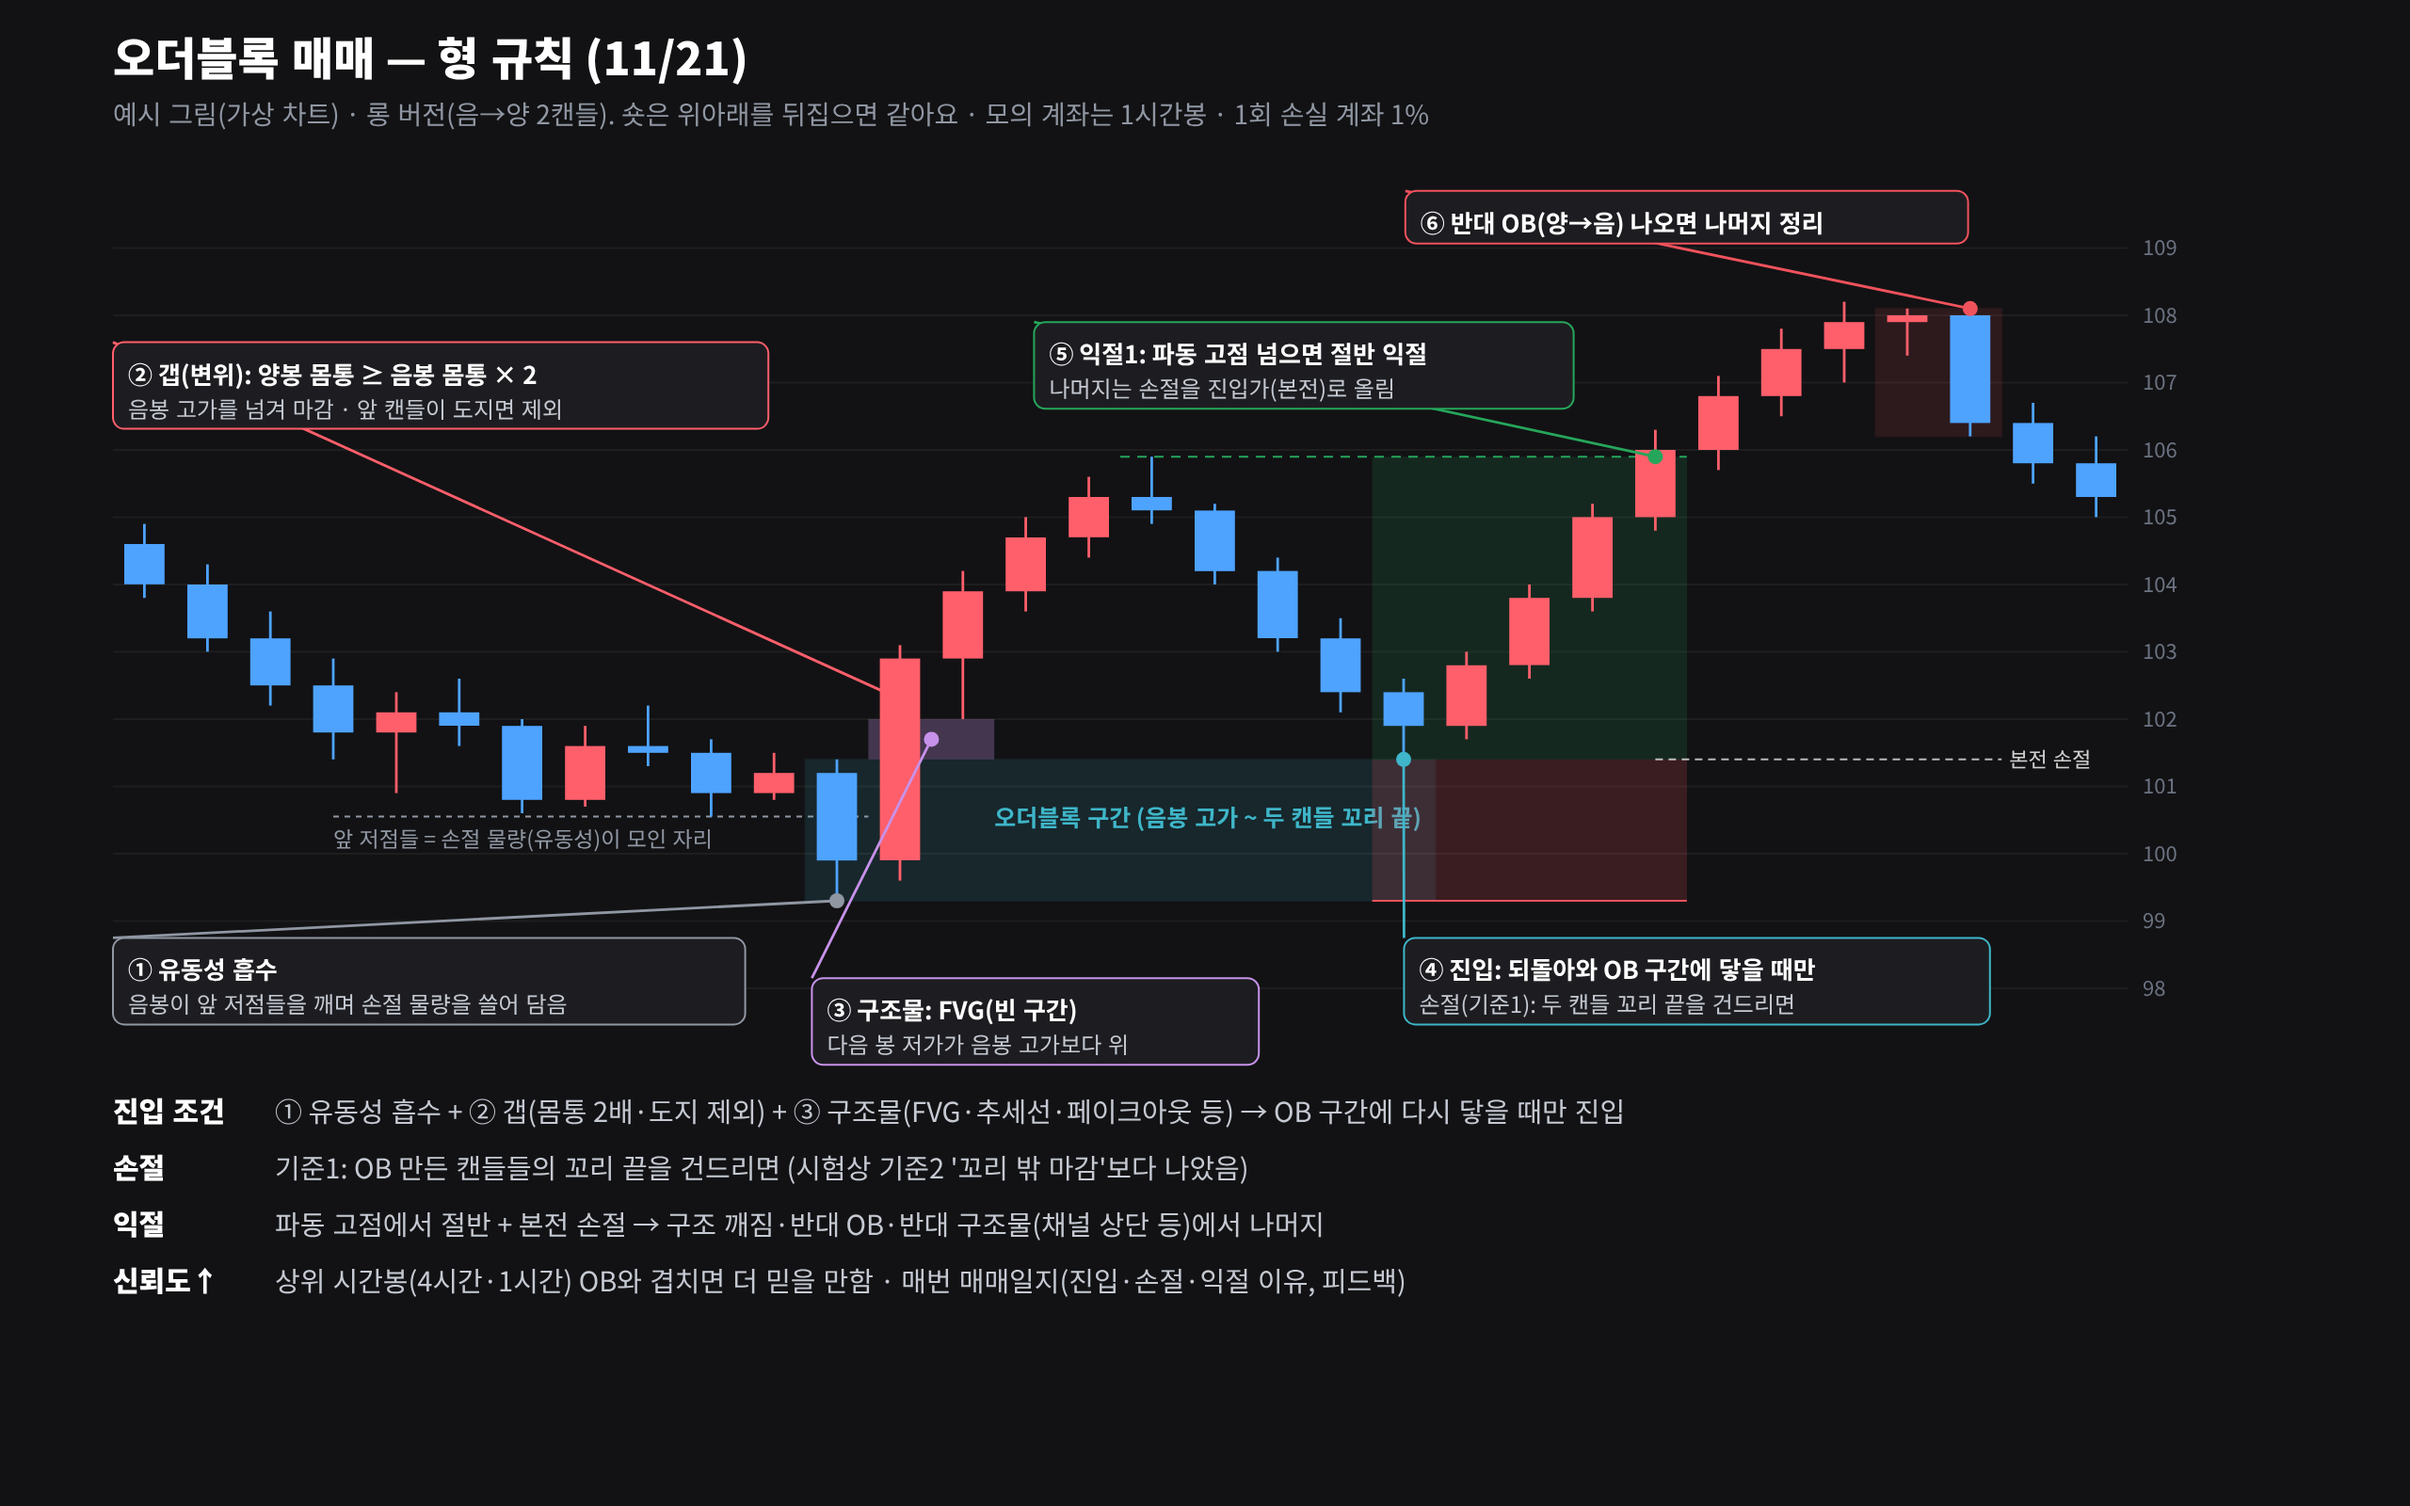
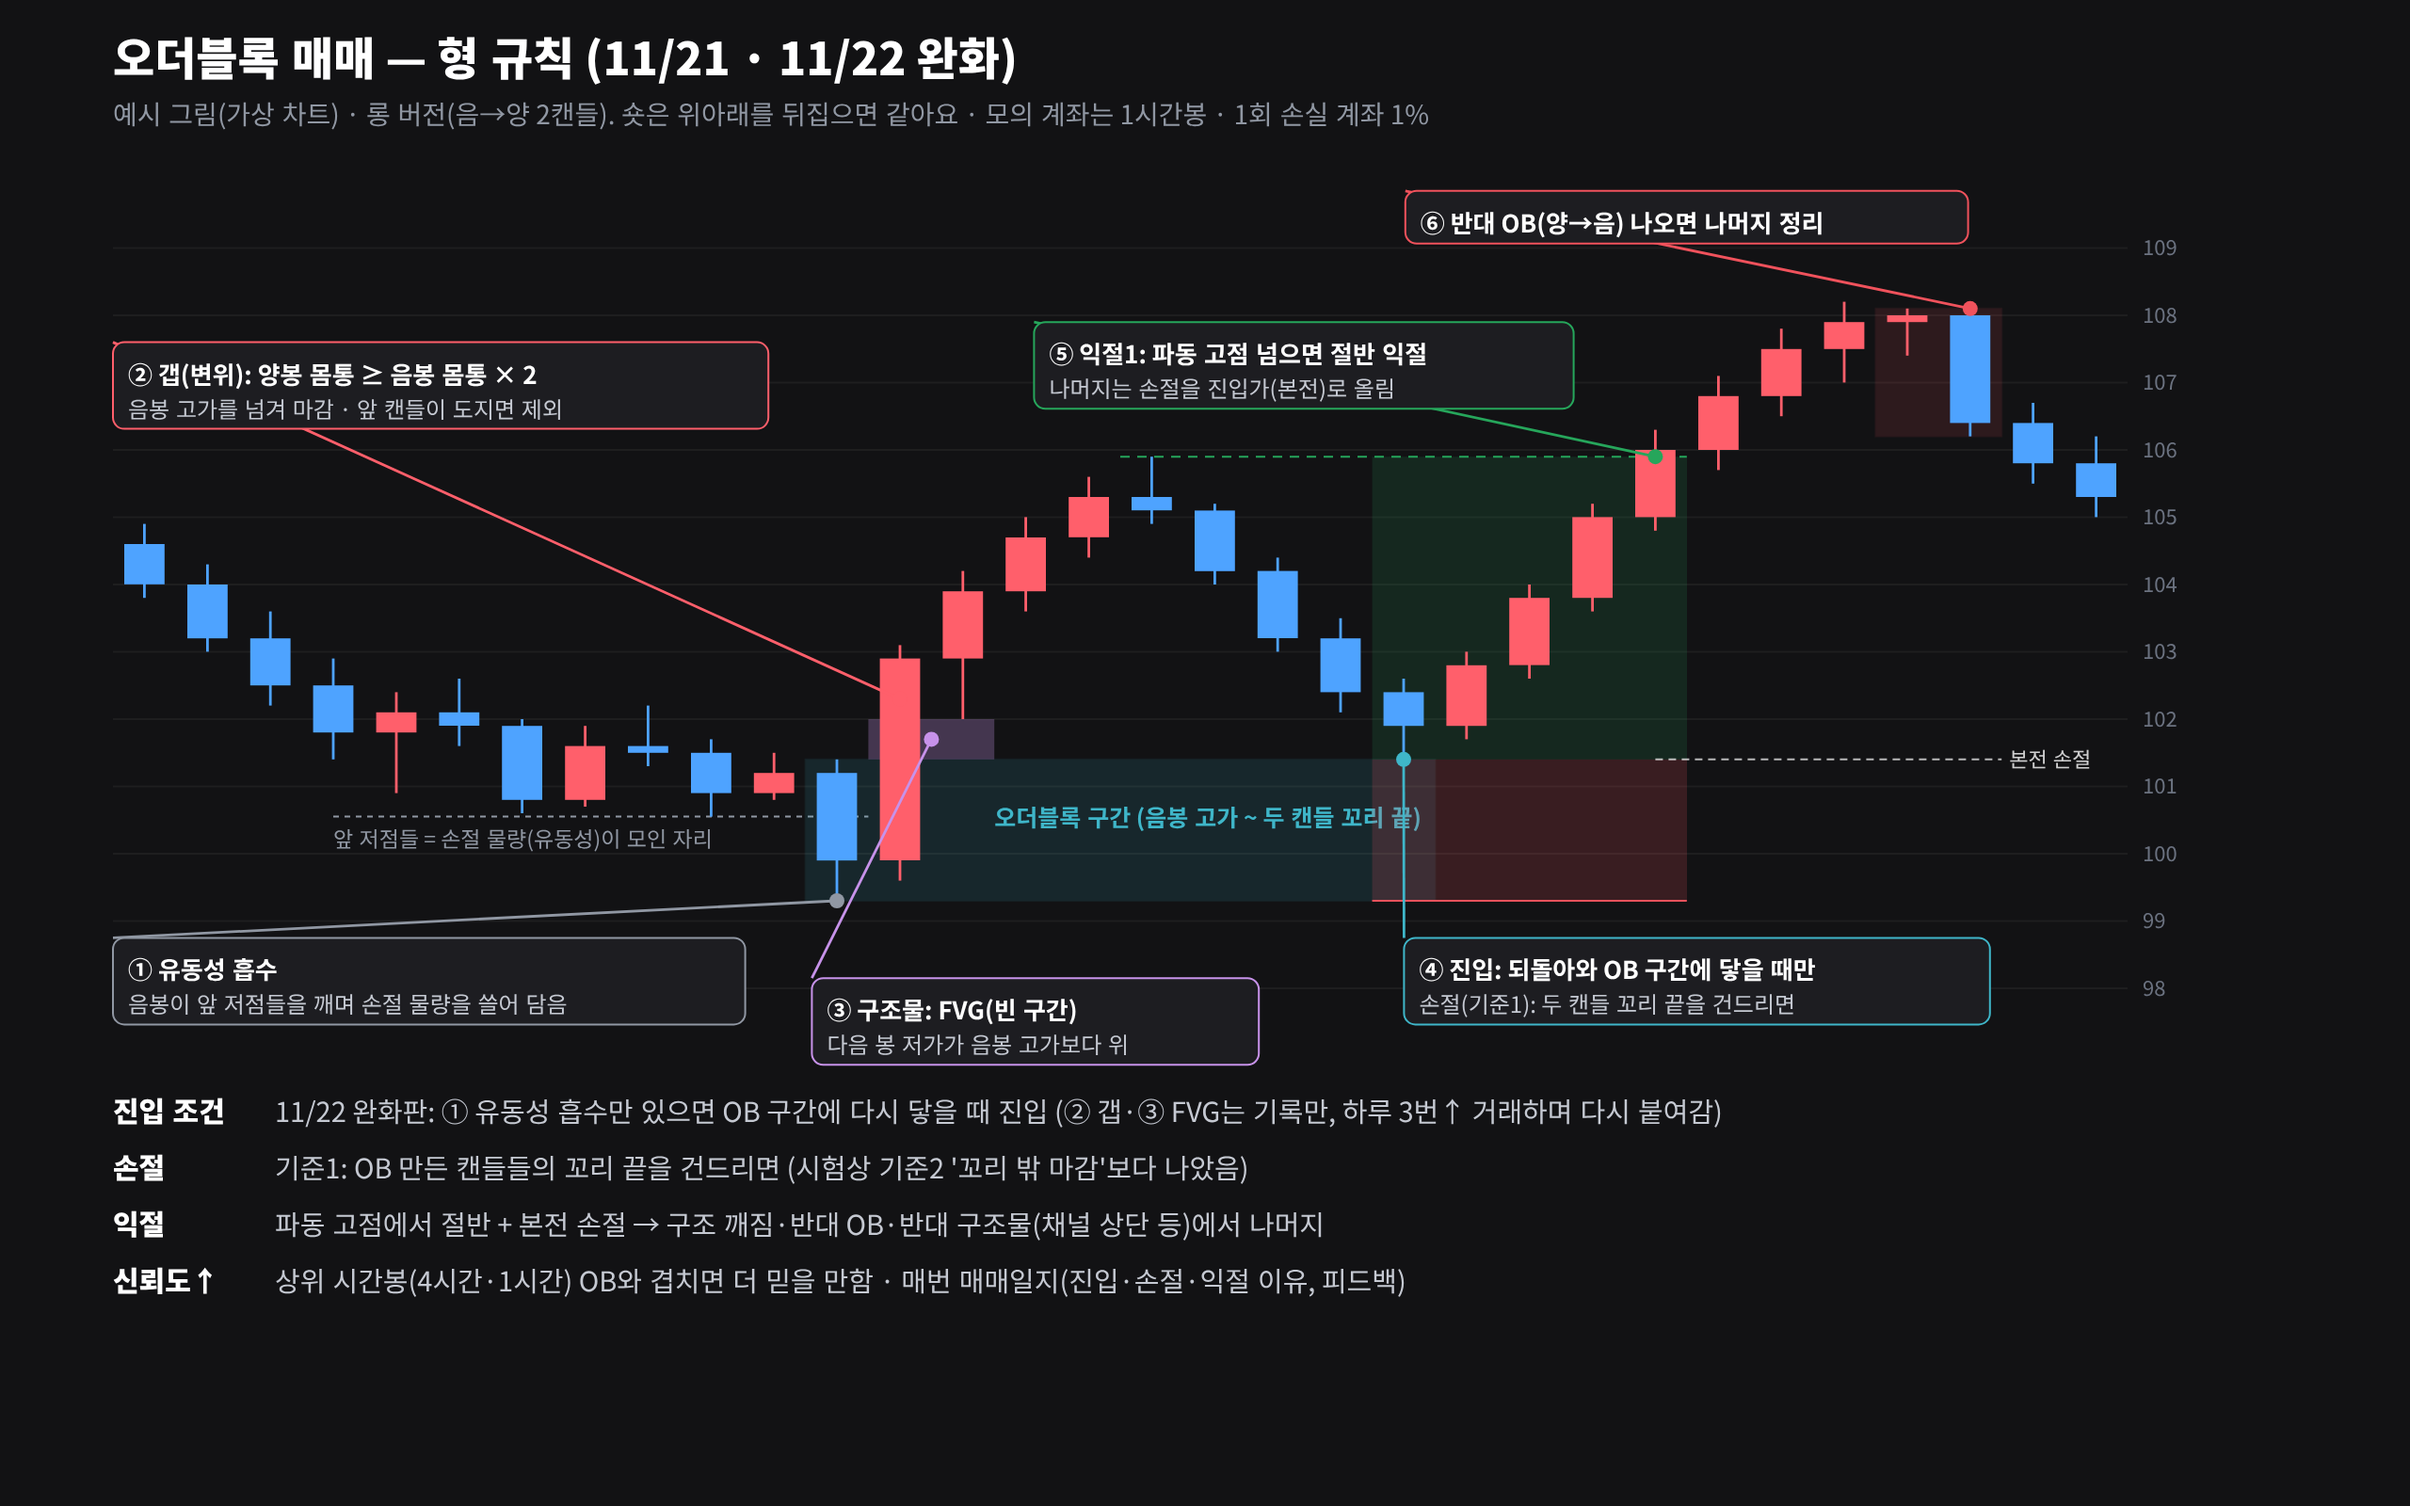
코인 오더블록 완화(형: 하루 3번↑ 거래하며 고쳐가기): 필터는 유동성 흡수만·손익비 조건 끔·1회 손실 1%→0.25%. 시험 하루 4.1번 평균 −0.10R
Claude-Session: https://claude.ai/code/session_01MmLTdxLKFpnJAK7WRLz1e2

Changed region(s): [[0.125, 0.7188, 0.7188, 0.75], [0.3125, 0.0, 0.4375, 0.0625]]

diff --git a/formulas/src/ob/ob_fig.py b/formulas/src/ob/ob_fig.py
@@ -23,7 +23,7 @@ pw=W-L-R; ph=H-T-B; pmin,pmax=97.3,110.0; n=len(C); bw=pw/n
 X=lambda i: L+bw*(i+.5); Y=lambda p: T+(pmax-p)/(pmax-pmin)*ph
 s=[]; a=s.append
 a(f'<rect width="{W}" height="{H}" fill="#121214"/>')
-a(f'<text x="{L}" y="40" fill="#fff" font-size="24" font-weight="800">오더블록 매매 — 형 규칙 (11/21)</text>')
+a(f'<text x="{L}" y="40" fill="#fff" font-size="24" font-weight="800">오더블록 매매 — 형 규칙 (11/21 · 11/22 완화)</text>')
 a(f'<text x="{L}" y="66" fill="#9097a3" font-size="14">예시 그림(가상 차트) · 롱 버전(음→양 2캔들). 숏은 위아래를 뒤집으면 같아요 · 모의 계좌는 1시간봉 · 1회 손실 계좌 1%</text>')
 for p in range(98,110,1):
     a(f'<line x1="{L}" x2="{W-R}" y1="{Y(p):.1f}" y2="{Y(p):.1f}" stroke="#fff" stroke-opacity=".05"/><text x="{W-R+8}" y="{Y(p)+4:.1f}" fill="#6b7280" font-size="11">{p}</text>')
@@ -68,7 +68,7 @@ note(X(E),Y(ob_hi),X(E)+0.2,Y(98.75),["④ 진입: 되돌아와 OB 구간에 닿
 note(X(TP1),Y(wave),X(TP1)-330,Y(107.9),["⑤ 익절1: 파동 고점 넘으면 절반 익절","나머지는 손절을 진입가(본전)로 올림"],'#26a65b')
 note(X(29),Y(C[28][1]),X(29)-300,Y(109.85),["⑥ 반대 OB(양→음) 나오면 나머지 정리"],'#f0525c')
 yb=H-B+46
-steps=[("진입 조건","① 유동성 흡수 + ② 갭(몸통 2배·도지 제외) + ③ 구조물(FVG·추세선·페이크아웃 등) → OB 구간에 다시 닿을 때만 진입"),
+steps=[("진입 조건","11/22 완화판: ① 유동성 흡수만 있으면 OB 구간에 다시 닿을 때 진입 (② 갭·③ FVG는 기록만, 하루 3번↑ 거래하며 다시 붙여감)"),
        ("손절","기준1: OB 만든 캔들들의 꼬리 끝을 건드리면 (시험상 기준2 '꼬리 밖 마감'보다 나았음)"),
        ("익절","파동 고점에서 절반 + 본전 손절 → 구조 깨짐·반대 OB·반대 구조물(채널 상단 등)에서 나머지"),
        ("신뢰도↑","상위 시간봉(4시간·1시간) OB와 겹치면 더 믿을 만함 · 매번 매매일지(진입·손절·익절 이유, 피드백)")]

diff --git a/research/orderblock/freq.py b/research/orderblock/freq.py
@@ -1,0 +1,21 @@
+"""오더블록 하루 3번 이상 (11/22 형: 기준 너무 빡빡하게 말고, 하면서 고치자) — 1시간봉 2년, 코인 3개 / 13개
+설정별 하루 평균 거래 수·평균 R·비용 0.1%일 때. 진입·손절·익절 방식은 그대로(구간 터치·꼬리 끝·파동 고점 절반)"""
+import itertools, numpy as np, pandas as pd
+from ob import load, find_obs, simulate
+C3 = ["BTC-USD", "ETH-USD", "SOL-USD"]
+C13 = C3 + ["XRP-USD", "BNB-USD", "DOGE-USD", "ADA-USD", "AVAX-USD", "LINK-USD", "LTC-USD", "DOT-USD", "BCH-USD", "TRX-USD"]
+D = {t: load(t, "1h") for t in C13}
+rows = []
+for K, L in [(1.0, 10), (1.5, 10), (1.5, 20), (2.0, 20)]:
+    OBS = {t: [o for o in find_obs(d, {"K": K, "L": L}) if o["k"] == 2] for t, d in D.items()}
+    for need, minrr in itertools.product([(), ("gap",), ("sweep",), ("fvg",), ("gap", "sweep"), ("sweep", "fvg"), ("gap", "fvg")], [0.0, 1.0]):
+        for nm, U in [("3개", C3), ("13개", C13)]:
+            T = pd.concat([simulate(D[t], OBS[t], dict(W=48, hold=72, K=K, need=need, stop_rule=1, tp="half", cost=.0005, minrr=minrr)).assign(sym=t) for t in U])
+            days = (D["BTC-USD"].index[-1] - D["BTC-USD"].index[0]).days
+            h = T.te.min() + (T.te.max() - T.te.min()) / 2
+            rows.append(dict(코인=nm, K=K, L=L, 필터="+".join(need) or "없음", minrr=minrr, n=len(T), 하루=len(T) / days, avgR=T.r.mean(), 승률=(T.r > 0).mean(),
+                             앞=T[T.te < h].r.mean(), 뒤=T[T.te >= h].r.mean(), 비용01=(T.r - 0.001 / T.risk).mean(), 손절폭=T.risk.median() * 100))
+R = pd.DataFrame(rows); R.to_csv("freq.csv", index=False); pd.set_option("display.width", 250)
+X = R[R.하루 >= 3].sort_values("avgR", ascending=False)
+print(f"하루 3번 이상 나오는 설정 {len(X)}개 / {len(R)}개 — 평균 R 높은 순"); print(X.head(12).round(3).to_string(index=False))
+print("\n참고: 지금 규칙(K2·L20·갭+흡수+FVG·minrr1, 3개)"); print(R[(R.코인 == "3개")].sort_values("하루").head(3).round(3).to_string(index=False))

diff --git a/scripts/ob_paper.py b/scripts/ob_paper.py
@@ -21,8 +21,11 @@ import yfinance as yf
 ROOT = Path(__file__).resolve().parent.parent
 OUT = ROOT / "data/us/ob_paper.json"
 SYMS = ["BTC-USD", "ETH-USD", "SOL-USD"]
-CFG = dict(iv="1h", K=2.0, dmin=0.15, L=20, need=("gap", "sweep", "fvg"), W=48, hold=72, minrr=1.0,
-           risk=0.01, maxE=5.0, fee=0.0005, k2=False)
+# 11/22 형: '기준 너무 빡빡하게 말고 하루 최소 3번은 거래하면서 고쳐가자' → 필터는 유동성 흡수만, 파동 고점 손익비 조건 끔
+#   시험(research/orderblock/freq.py, 1시간봉 2년 3개 코인): 하루 4.1번 · 평균 −0.10R(손실 쪽) → 1회 손실을 1%→0.25%로 줄여 고치는 동안 손실을 작게
+#   (예전: 갭+흡수+FVG·손익비 1 → 2년 101번, 하루 0.14번, +0.14R)
+CFG = dict(iv="1h", K=2.0, dmin=0.15, L=20, need=("sweep",), W=48, hold=72, minrr=0.0,
+           risk=0.0025, maxE=5.0, fee=0.0005, k2=False)
 IVMIN = {"5m": 5, "15m": 15, "1h": 60}
 
 
